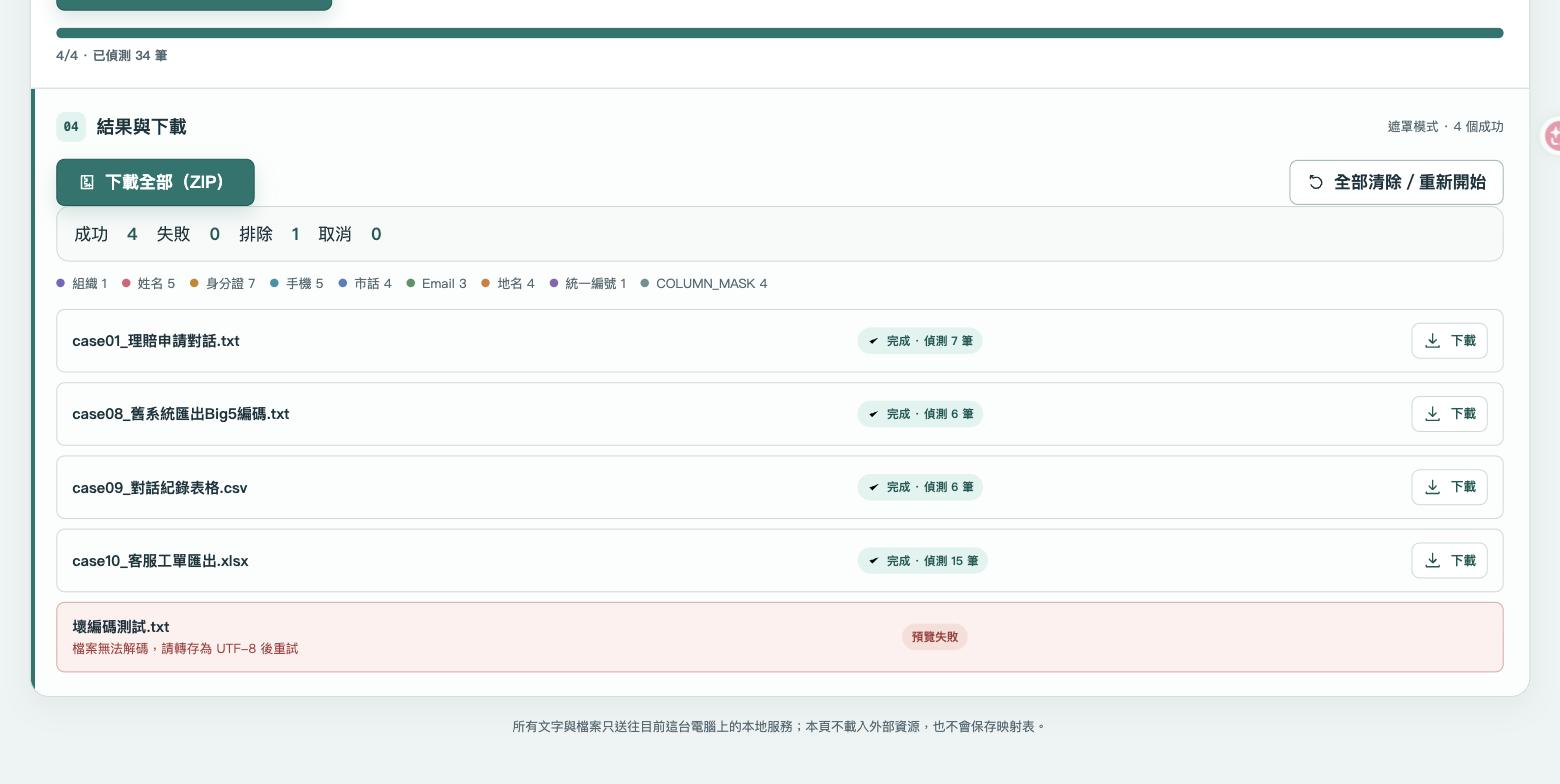
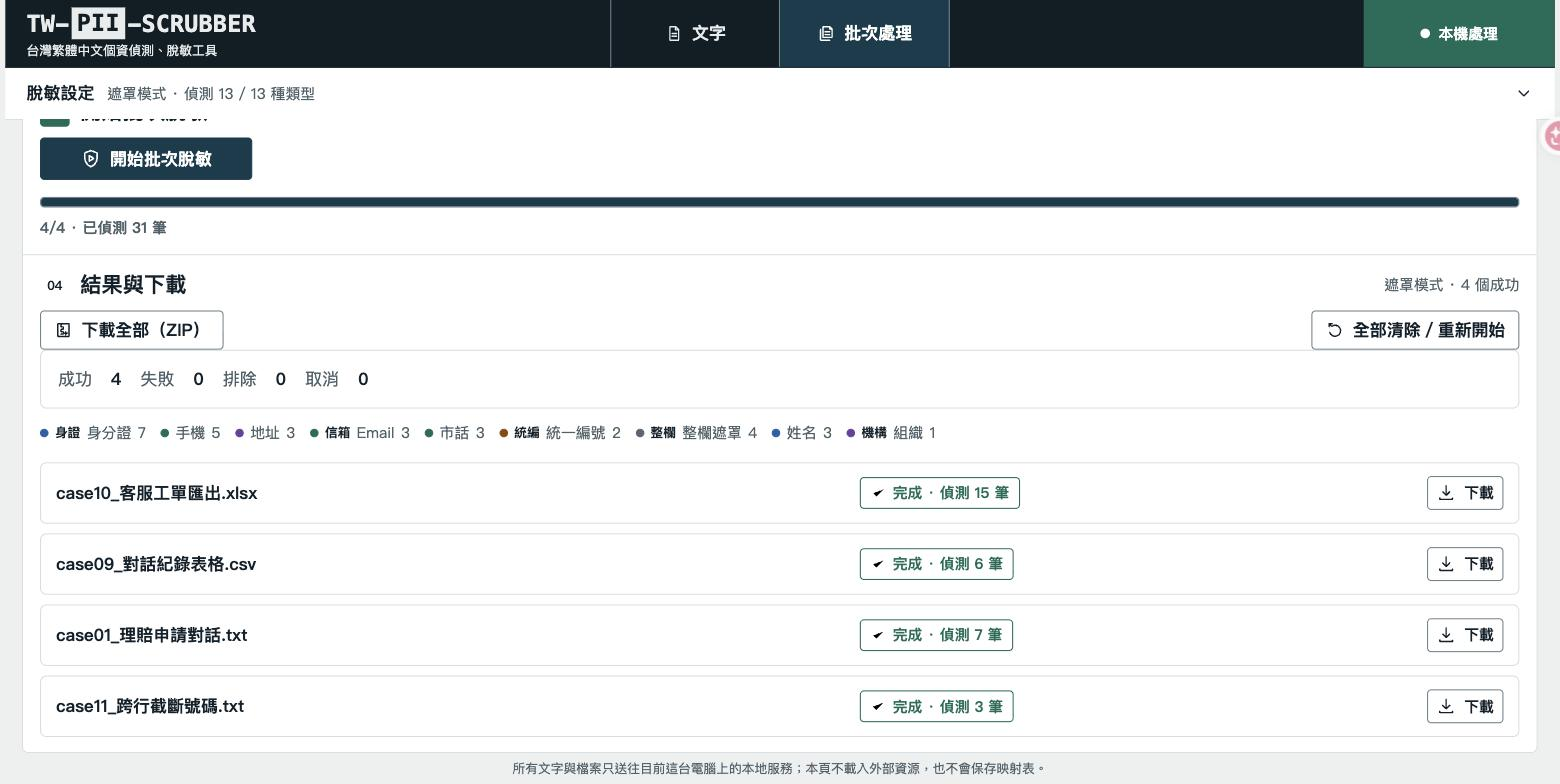
docs: 更新 README 截圖為新設計,補 COLUMN_MASK 標籤與圖例去重
截圖改用真實客服對話情境(11 筆偵測、稽核軸、群組色+線型圖例)與
批次處理結果(收合摘要、4 檔逐檔狀態、entity 統計、ZIP 下載)。
批次統計中的整欄遮罩原顯示為「其他 未知類型」,補上正確標籤;
短碼與後端 label 相同時不再重複顯示。

Claude-Session: https://claude.ai/code/session_01ViYkuNn7Dy82AmFSgEFuRx

diff --git a/static/index.html b/static/index.html
@@ -2554,6 +2554,8 @@
       ORG: { group: '組織地點', line: 'dotted', code: '機構', label: '機構名稱', background: '#F3F0F7', border: '#6B3FA0' },
       LOC: { group: '組織地點', line: 'dotted', code: '地址', label: '地址地點', background: '#F3F0F7', border: '#6B3FA0' },
       AGENT_CODE: { group: '內部', line: 'solid', code: '代號', label: '客服人員代號', background: '#F2F3F4', border: '#5A6570' },
+      // 檔案批次的「整欄遮罩」策略產生的 finding(後端 entity_type)
+      COLUMN_MASK: { group: '內部', line: 'solid', code: '整欄', label: '整欄遮罩', background: '#F2F3F4', border: '#5A6570' },
       DEFAULT: { group: '其他', line: 'solid', code: '其他', label: '未知類型', background: '#F2F3F4', border: '#5A6570' }
     });
 
@@ -3068,6 +3070,9 @@
         }
         elements.entityStatus.textContent = entityText;
         elements.entityStatus.classList.toggle('is-error', selected.length === 0);
+        // 狀態行在 ResizeObserver 觀察的 grid 之外,文字換行會改變總高度,
+        // 因此在此重量一次(值穩定後不會再變動,不會造成迴圈)
+        measureControlContentHeight();
       }
       const anyBusy = state.textBusy || state.fileBusy;
       const validBatchItems = state.files.filter((item) => item.preview && !item.previewError);

diff --git a/README.md b/README.md
@@ -31,9 +31,9 @@
 - **鐵律:任何資料不得離開本機。執行期不呼叫任何外部 API、無 CDN、無遙測。**
   (連 FastAPI 內建 /docs 都停用了——swagger-ui 走 CDN。)
 
-![文字脫敏:左右對照、依類型分色高亮](assets/screenshot-text.jpg)
+![文字脫敏:左右對照、中央稽核軸標示每筆個資位置、依群組分色與線型高亮](assets/screenshot-text.jpg)
 
-![批次處理:逐檔進度、失敗隔離、ZIP 打包下載](assets/screenshot-batch.jpg)
+![批次處理:多檔逐一處理、失敗隔離、entity 統計與 ZIP 打包下載](assets/screenshot-batch.jpg)
 
 ---
 
